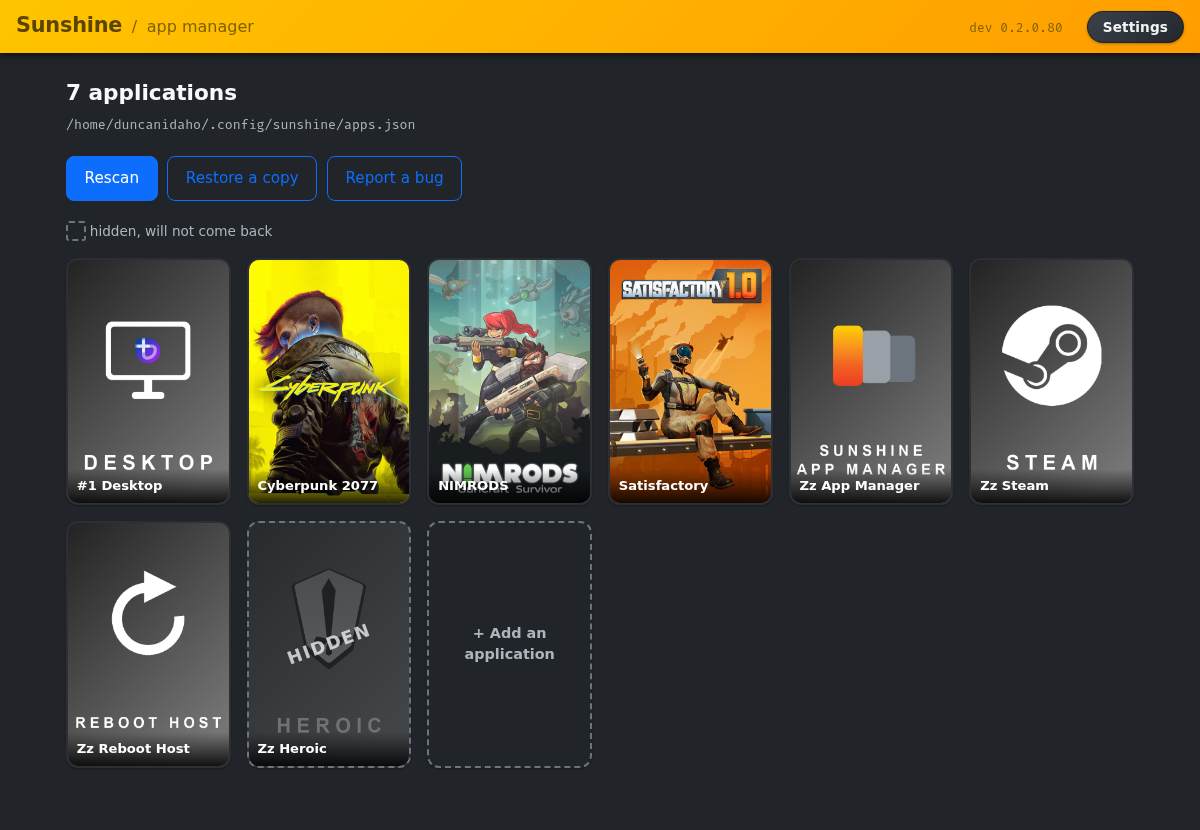
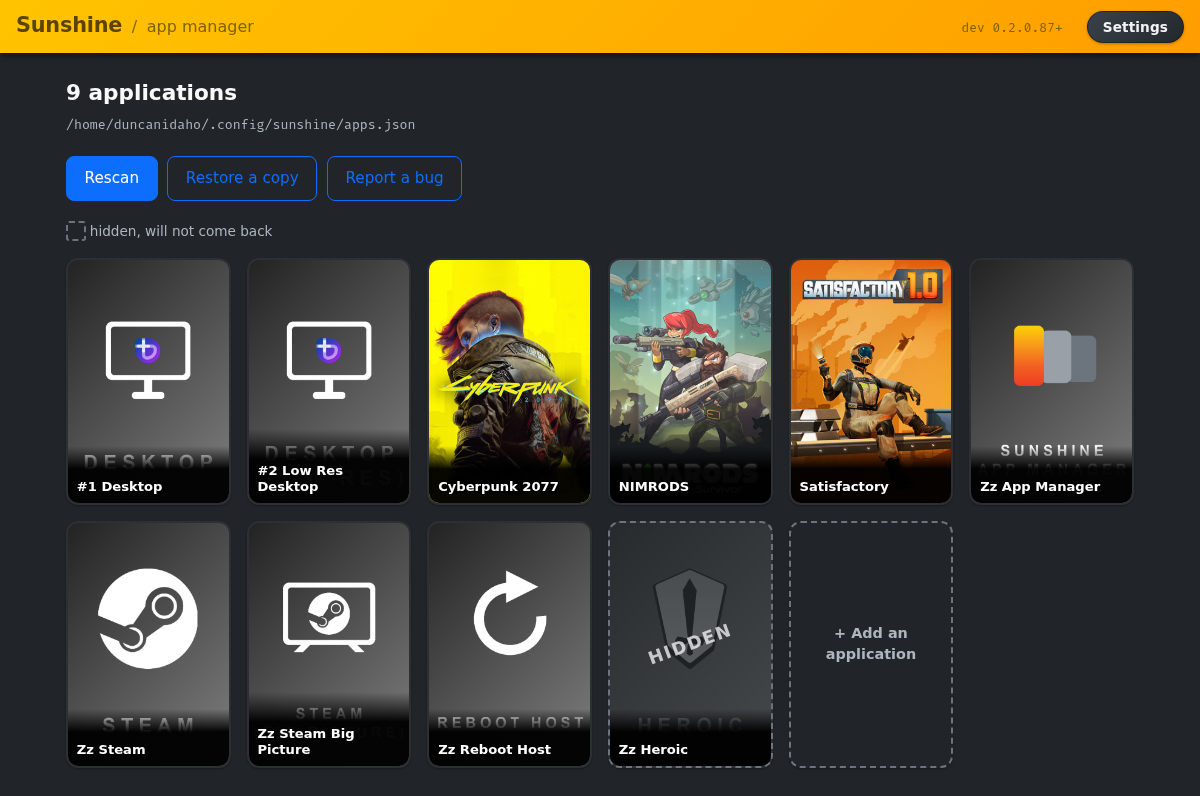
Fix what a README audit turned up, in the code and the documents
Checking every claim in the README against the code rather than re-reading it,
and photographing the result:

The distribution logo is not read off the machine. It was, through LOGO= in
os-release and a hunt under /usr/share/icons; that went when tiles started
being rendered here and shipped. docs/tile-art.md still described the old
chain in detail, and the README said logos were "taken from the machine" and
"not redistributed by us" -- which is the opposite of true, and a licence
claim. Both corrected: we vendor six distribution marks and redistribute them
under the terms listed.

NOTICE had no artwork section at all, while the README said it carried the
list in full. It has one now.

docs/ai-usage.md and docs/packaging.md did not exist, and were linked from the
README and named in the interface. Both written. The interface now links to
the repository rather than naming a local path, because a release archive
carries no docs/ directory.

Tile captions could not hold the names we started writing: "#2 Low Res
Desktop" and "Zz Steam Big Picture" wrap onto two lines, and the scrim was one
line tall, so the name sat on top of the words painted into the artwork. The
scrim now covers what the name needs.

A link inside explanatory text was the same size and weight as the text around
it, underlined in the browser default. Legible at a desk, not from a sofa.

Screenshots retaken from the running program: dark, with a locale set, showing
[…]

diff --git a/src/sunshine_apps_ui/render.py b/src/sunshine_apps_ui/render.py
@@ -580,9 +580,14 @@ background:var(--bg-subtle);border:2px solid transparent;box-shadow:var(--shadow
 .tile .fallback{width:100%;height:100%;display:flex;align-items:center;
 justify-content:center;padding:.6rem;text-align:center;font-weight:600;
 font-size:.9rem;color:var(--text-muted);background:var(--bg-muted)}
-.tile .cap{position:absolute;left:0;right:0;bottom:0;padding:.45rem .55rem;
-font-size:.82rem;font-weight:600;color:#fff;
-background:linear-gradient(transparent,rgba(0,0,0,.85))}
+/* The scrim has to cover however many lines the name takes. It used to be as
+   short as one line, so "#2 Low Res Desktop" and "Zz Steam Big Picture" --
+   both of which we started writing when Sunshine's own tiles were adopted --
+   wrapped onto a second line that sat on bare artwork, on top of the words
+   already painted there. */
+.tile .cap{position:absolute;left:0;right:0;bottom:0;padding:2.1rem .55rem .45rem;
+font-size:.82rem;font-weight:600;color:#fff;line-height:1.25;
+background:linear-gradient(transparent,rgba(0,0,0,.97) 40%,rgba(0,0,0,.97))}
 .tile.new{border-color:var(--success)}
 .tile.pending{border-color:var(--warning)}
 .tile.pending .flag{background:var(--warning);color:#1a1a1a}
@@ -687,6 +692,10 @@ without it.</p></section>
 # Where bugs go. One place, so the link on the page and the code in the QR
 # cannot drift apart -- they are both this string.
 ISSUES_URL = "https://github.com/4o66/sunshine-apps-ui/issues"
+# Documentation lives in the repository and not in an install: a release
+# archive carries no docs/ directory, so naming a local path in the interface
+# would send somebody looking for a file that is not on their machine.
+DOCS_URL = "https://github.com/4o66/sunshine-apps-ui/blob/main/docs"
 
 
 def _version_label() -> str:
@@ -723,6 +732,12 @@ background:var(--bg-subtle);border:1px solid var(--border);font-size:.9rem}
 border:1px solid var(--border);border-radius:var(--radius-md);
 padding:.5rem .7rem;font:inherit;font-size:.9rem;max-width:100%}
 .setting select:focus-visible{outline:3px solid var(--accent);outline-offset:2px}
+/* A link inside explanatory text was the same small muted grey as the text
+   around it, underlined in the browser default -- legible on a desk, not from
+   a sofa. */
+.setting .why a{color:var(--primary);font-weight:600;text-decoration:underline;
+text-underline-offset:2px}
+.setting .why a:hover{color:var(--primary-hover,var(--primary))}
 .setting form + .why{margin:.5rem 0 .7rem}
 """
 
@@ -740,6 +755,7 @@ def settings_page(token: str, *, prefs: Dict[str, Any],
     Apply expecting their theme to be saved.
     """
     q = f"?token={_e(token)}" if token else ""
+    docs = _e(DOCS_URL)
     chosen = str(prefs.get("theme", "system")).lower()
     dev = bool(prefs.get("dev_builds", False))
     fall_back = bool(prefs.get("stable_if_no_newer_dev", True))
@@ -760,7 +776,9 @@ def settings_page(token: str, *, prefs: Dict[str, Any],
                      f'What changed</a></div>'
                      f'<p class="why" style="margin:.6rem 0 0">Installing it '
                      f'from here is not built yet: there is no package to '
-                     f'install. See <code>docs/packaging.md</code>.</p>')
+                     f'install. <a href="{_e(DOCS_URL)}/packaging.md" '
+                     f'target="_blank" rel="noopener noreferrer">Why, and what '
+                     f'updating means today</a>.</p>')
         found = (f'<div class="result {_e(answer.state)}">{_e(answer.message)}'
                  f'{extra}</div>')
 
@@ -838,8 +856,9 @@ def settings_page(token: str, *, prefs: Dict[str, Any],
     <h3>Language</h3>
     <p class="why">Which language the words on the tiles are in. The interface
     itself is English for now; the strings are ready to be translated and a
-    language is a file and a pull request &mdash; see
-    <code>docs/i18n.md</code>.</p>
+    language is a file and a pull request &mdash;
+    <a href="{docs}/i18n.md" target="_blank" rel="noopener noreferrer">how to
+    add one</a>.</p>
     <form method="post" action="/settings/language{q}">
       <select name="language" onchange="this.form.submit()">{options}</select>
       <noscript><button class="btn sec" type="submit">Save</button></noscript>

diff --git a/src/sunshine_apps_ui/server.py b/src/sunshine_apps_ui/server.py
@@ -987,8 +987,9 @@ def _offer_artwork(token: str, code: str) -> None:
             return
     _ART[token] = {"state": "none",
                    "message": (f"Nobody has made tiles for {wanted} yet, so the "
-                               f"wordless set is used. docs/i18n.md is how to "
-                               f"add them.")}
+                               f"wordless set is used. Adding a language is a "
+                               f"file and a pull request; the link above says "
+                               f"how.")}
 
 
 def _check_artwork(token: str) -> None:

diff --git a/docs/ai-usage.md b/docs/ai-usage.md
@@ -1,0 +1,106 @@
+# How this was built, and with what
+
+This project's code was written almost entirely by an AI assistant (Anthropic's
+Claude, driven from Claude Code) under direction, review and testing by a
+human maintainer. That is stated here plainly because you are entitled to know
+what you are installing, and because the interesting part is not *that* it was
+used but *how it was constrained*.
+
+## The division of labour
+
+**The assistant wrote:** essentially all of the Python, the 187 lines of C# in
+`src/sunshine_apps_ui/host/AppWindow.cs`, the tests, the documentation, and the
+tile artwork generator. As of this writing: 41 modules, ~12,800 lines of
+source, 33 test files, ~10,200 lines of tests.
+
+**The maintainer did:** all of the direction, the design decisions, the
+acceptance testing on real hardware, and the rejections. Every feature in here
+exists because it was asked for, and several exist in their current shape
+because the first attempt was sent back.
+
+Both matter. The code is machine-written; the judgement about whether it is
+any good is not.
+
+## The rules it works under
+
+These are enforced in the maintainer's standing instructions and are not
+negotiable per-task:
+
+- **Measure, do not infer.** Any claim about behaviour — timings, privilege
+  levels, whether a fallback works — must come from running it on the target
+  machine. Estimates are labelled as estimates. When a measurement contradicts
+  an earlier claim, the correction is stated plainly rather than quietly
+  folded in.
+- **Never test as the built-in Administrator on Windows.** It receives an
+  unfiltered token, so nothing about elevation or de-elevation measured there
+  is true of a real machine. Testing uses a normal account with local admin.
+- **Credentials are never typed into the session.** They are captured by a
+  script the human runs, never passed inline, never echoed, never printed —
+  including into logs and commit messages.
+- **Destructive operations are confirmed first**, and backups are taken before
+  anything is overwritten. `docker image prune` never with `-a`. No force-push
+  without an explicit instruction and a bundle taken first.
+- **Shared repositories are worked in a worktree**, never with `git add -A`,
+  and a push is confirmed against the remote ref rather than against local
+  `HEAD`.
+- **Lab machines are powered down when testing finishes**, with their disks
+  kept.
+- **Artwork is not invented.** Designs are shown as mockups and approved before
+  any code is written; logos are taken from their owners' published sources
+  under stated licences, never redrawn from memory.
+
+## Testing: what a machine checked, and what a person did
+
+**Automated.** ~10,200 lines of tests to ~12,800 lines of source. They run on
+every change and cover the things that are logic: the reconciler and its
+divergence rules, the mutation contract, path handling across platforms,
+version comparison, the localization fallback chains, command-line
+construction for every browser and platform, tombstones, backups.
+
+**What automated tests could not catch, and did not.** Almost everything that
+made this program actually work on a television was found by running it on
+real hardware:
+
+- Whether a window appears at all, how long it takes, and whether closing it
+  leaves anything behind.
+- Integrity levels and de-elevation on Windows.
+- That WebKitGTK aborts on Ubuntu 24.04 because its sandbox needs an
+  unprivileged user namespace that the distribution restricts by default.
+- That `Gtk.Application` could not register on a session bus, so no window
+  ever appeared.
+- That a page's own Content-Security-Policy silently refused its own inline
+  script, leaving a progress display frozen at "0.0s".
+- That text shaping is absent from the Pillow wheel shipped on Windows, so
+  Arabic, Hebrew, Devanagari and Thai cannot be rendered correctly.
+
+**Found by the human, in use, not by any test:** missing artwork on imported
+games; an artwork message that demanded an API key for a picture already on
+disk; a ten-second wait before the interface appeared; the window not being
+fullscreen over Moonlight; no Start-menu entry; a console window left behind;
+"apply changes" appearing to do nothing; the scan page frozen; the Steam logo
+clipped at the bottom of a tile; a caption claiming something the picture
+contradicted; a colour gradient that was actually two flat blocks; a penguin
+that looked like a bad knock-off.
+
+**Corrections the assistant made to its own claims**, after measuring: a
+predicted ~300 ms window start that was actually 1.7 s; a set of GUI
+measurements taken in Windows session 0, where no window can be seen, which
+had to be thrown away entirely; three separate occasions where a test harness
+was broken rather than the product, reported as product failures until proven
+otherwise.
+
+The honest summary: **the test suite is good at logic and blind to reality.**
+Every platform-specific defect in this project's history was found by a person
+running it, or by the assistant running it on the actual machine — never by the
+unit tests.
+
+## What this means for you
+
+Read the code. It is commented heavily, including the reasoning for decisions
+that look odd, and the measurements that led to them. Nothing here is
+obfuscated or minified, the bundled interpreter is an unmodified published
+CPython verified by checksum, and the only compiled artifact is built on your
+machine from source in this repository.
+
+If you find something wrong, the report link in the interface goes to the
+issues page.

diff --git a/docs/tile-art.md b/docs/tile-art.md
@@ -123,32 +123,34 @@ on the monitor's screen, fitted into **30 × 30 units** of the monitor's 100-uni
 grid and centred in the screen area, which is inset from the bezel so nothing
 crosses it.
 
-**On Linux the distribution's own logo is used, taken from the machine.** It is
-already installed; we neither ship it nor fetch it. Finding it takes a chain,
-because distributions do not agree:
+**On Linux the distribution's own logo is used, from the set we vendor.** The
+lookup is two steps and then a fallback:
 
-1. `LOGO=` in `/etc/os-release`, then look for `<logo>.svg`, `<logo>.png` or
-   `<logo>-icon.png` under `/usr/share/icons/hicolor/<size>/apps/` and
-   `/usr/share/pixmaps/`. Prefer the plain name over `-text` and `-dark`
-   variants, and the largest size available.
-2. Failing that, the same search for `<ID>-logo.*` and `<ID>.*`, where `ID` is
-   the `ID=` field. This is what catches Debian.
-3. Failing that, the penguin.
+1. `ID=` in `/etc/os-release`, matched against `desktop-<id>.png` in the tile
+   set. `ID=bazzite` gets `desktop-bazzite.png`.
+2. Failing that, `desktop-linux.png` — the penguin, which is right anywhere.
 
-Measured on 2026-09-19, which is why the chain has three links and not one:
+**It used to read the logo off the machine**, through `LOGO=` in `os-release`
+and a hunt under `/usr/share/icons/hicolor` and `/usr/share/pixmaps`. That is
+gone, and this is why: tiles are now rendered here and shipped, so there is no
+compositing on the host, no dependency on Pillow being installed there, and
+every machine of a given distribution gets the same tile rather than whichever
+icon pack happened to be installed. The measurements that justified vendoring
+are worth keeping, because they are what the old chain ran into, taken
+2026-09-19:
 
-| distribution | `LOGO=` | icon present | found by |
-|---|---|---|---|
-| Bazzite (desktop) | `bazzite-logo` | yes | step 1 |
-| Ubuntu 24.04 | `ubuntu-logo` | yes | step 1 |
-| Arch | `archlinux-logo` | yes | step 1 |
-| Debian 13 | **absent** | `debian-logo.png` | step 2 |
-| Fedora 43 (cloud) | `fedora-logo-icon` | **no** | step 3 |
+| distribution | `LOGO=` | icon present on the machine |
+|---|---|---|
+| Bazzite (desktop) | `bazzite-logo` | yes |
+| Ubuntu 24.04 | `ubuntu-logo` | yes |
+| Arch | `archlinux-logo` | yes |
+| Debian 13 | **absent** | `debian-logo.png`, under another name |
+| Fedora 43 (cloud) | `fedora-logo-icon` | **no** |
 
-The Fedora row is the useful one: a minimal or cloud install may name a logo it
-does not have. A desktop install has it — Bazzite is Fedora and does. The
-penguin is not a rare path to be hand-waved; it is what a server-shaped machine
-gets.
+Two of five machines could not answer the question they were being asked:
+Debian names no logo at all, and Fedora's cloud image names one it does not
+have. A distribution we ship no mark for still gets the penguin, which is what
+a server-shaped machine gets and not a rare path to be hand-waved.
 
 Windows is four panes, drawn here. **macOS is Apple's own mark**, rendered from
 the path Apple publishes in the global navigation on `apple.com` — the same

diff --git a/docs/packaging.md b/docs/packaging.md
@@ -1,0 +1,49 @@
+# Packaging, and why the update check cannot install anything
+
+**Status: there is no package.** The update check in Settings asks GitHub what
+the newest release is and tells you. It cannot install it, and the page says
+so rather than offering a button that would fail.
+
+This is the honest state of things, written down so the gap is deliberate
+rather than forgotten.
+
+## What is shipped today
+
+`scripts/make-release` builds two archives of the same tree:
+
+| file | for |
+|---|---|
+| `sunshine-apps-ui.zip` | the Windows one-paste install |
+| `sunshine-apps-ui.tar.gz` | the Linux install |
+
+The filenames carry no version, because the install instructions point at
+`releases/latest/download/<name>` and that only resolves if the name is the
+same every time. The directory *inside* each archive carries the version, so
+an extracted copy is identifiable.
+
+`docs/` and `tests/` are left out of both: a person installing this does not
+need the decision record or the test suite, and both are on GitHub.
+
+## What updating means right now
+
+Download the new archive and run the installer over the top. It installs to
+the same place, keeps your `apps.json` alone — the installer never writes it —
+and leaves your preferences where they are, under the state directory rather
+than the program directory.
+
+On Windows, Add/Remove Programs lists the installed copy; installing a newer
+one updates that entry rather than adding a second.
+
+## What a real update would need, in order
+
+1. **A signed or checksummed artifact per platform.** The archive is already
+   built reproducibly from a clean tree; what is missing is a published digest
+   the program can verify before it unpacks anything.
+2. **A way to replace a running program.** On Windows the installer cannot
+   overwrite files the running manager has open, so an update has to stage the
+   new copy and swap it after exit. On Linux it is simpler but the same shape.
+3. **A rollback.** Every write to `apps.json` is backed up; an update that
+   replaces the program deserves the same courtesy.
+
+Until those exist, the check tells you a release is there and links to what
+changed. That is less than an updater and more than silence.
